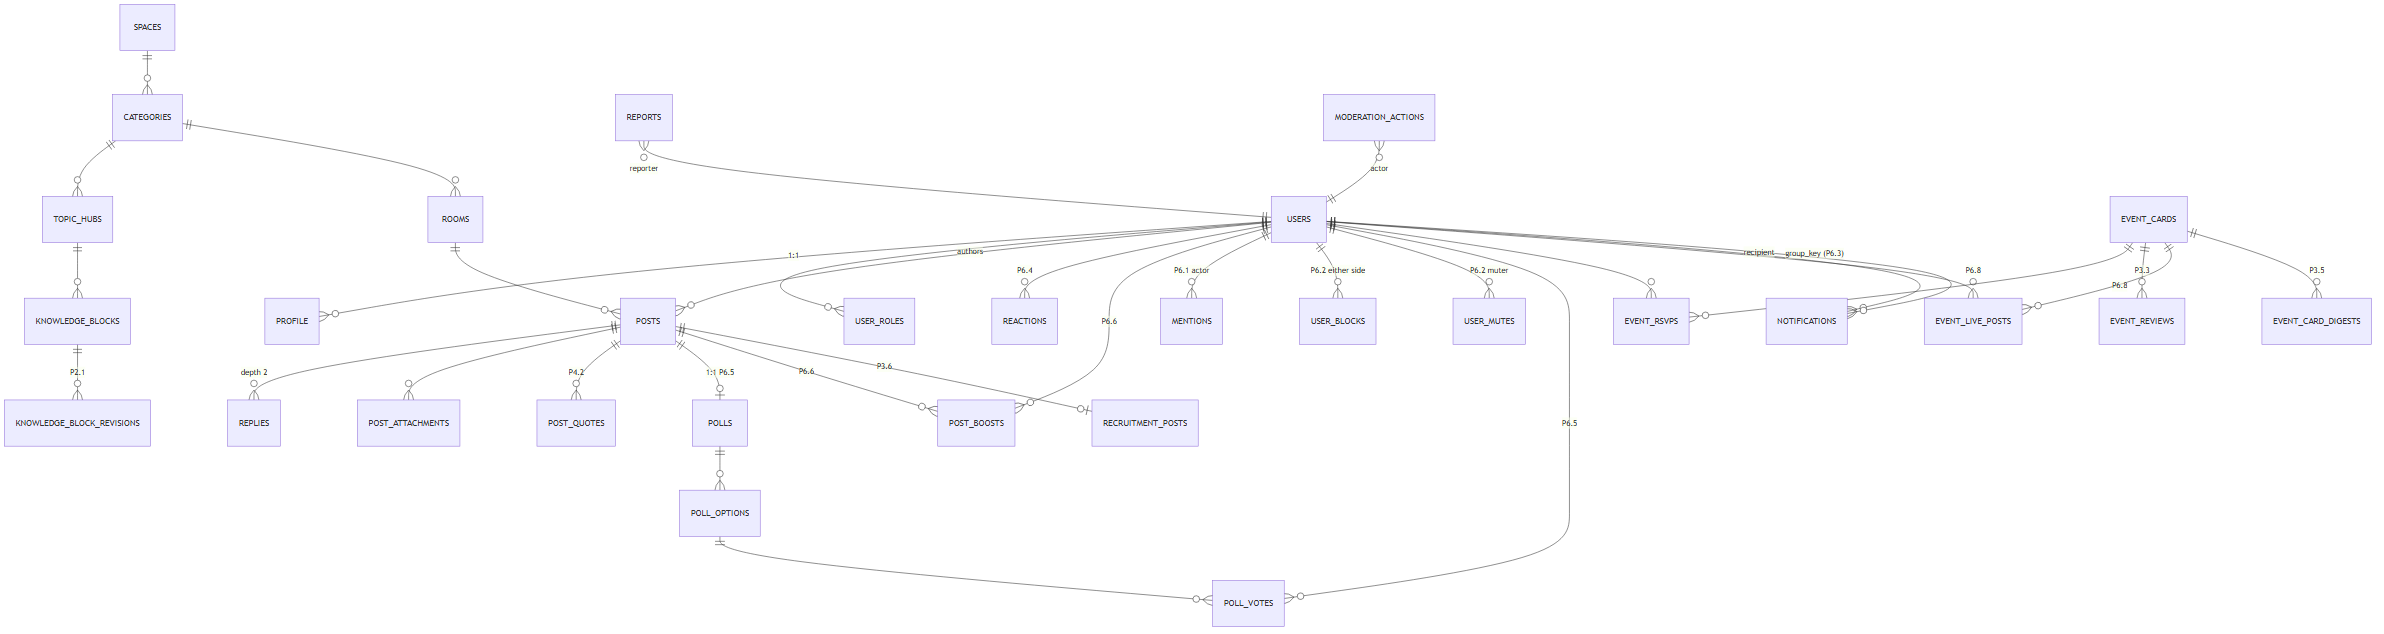
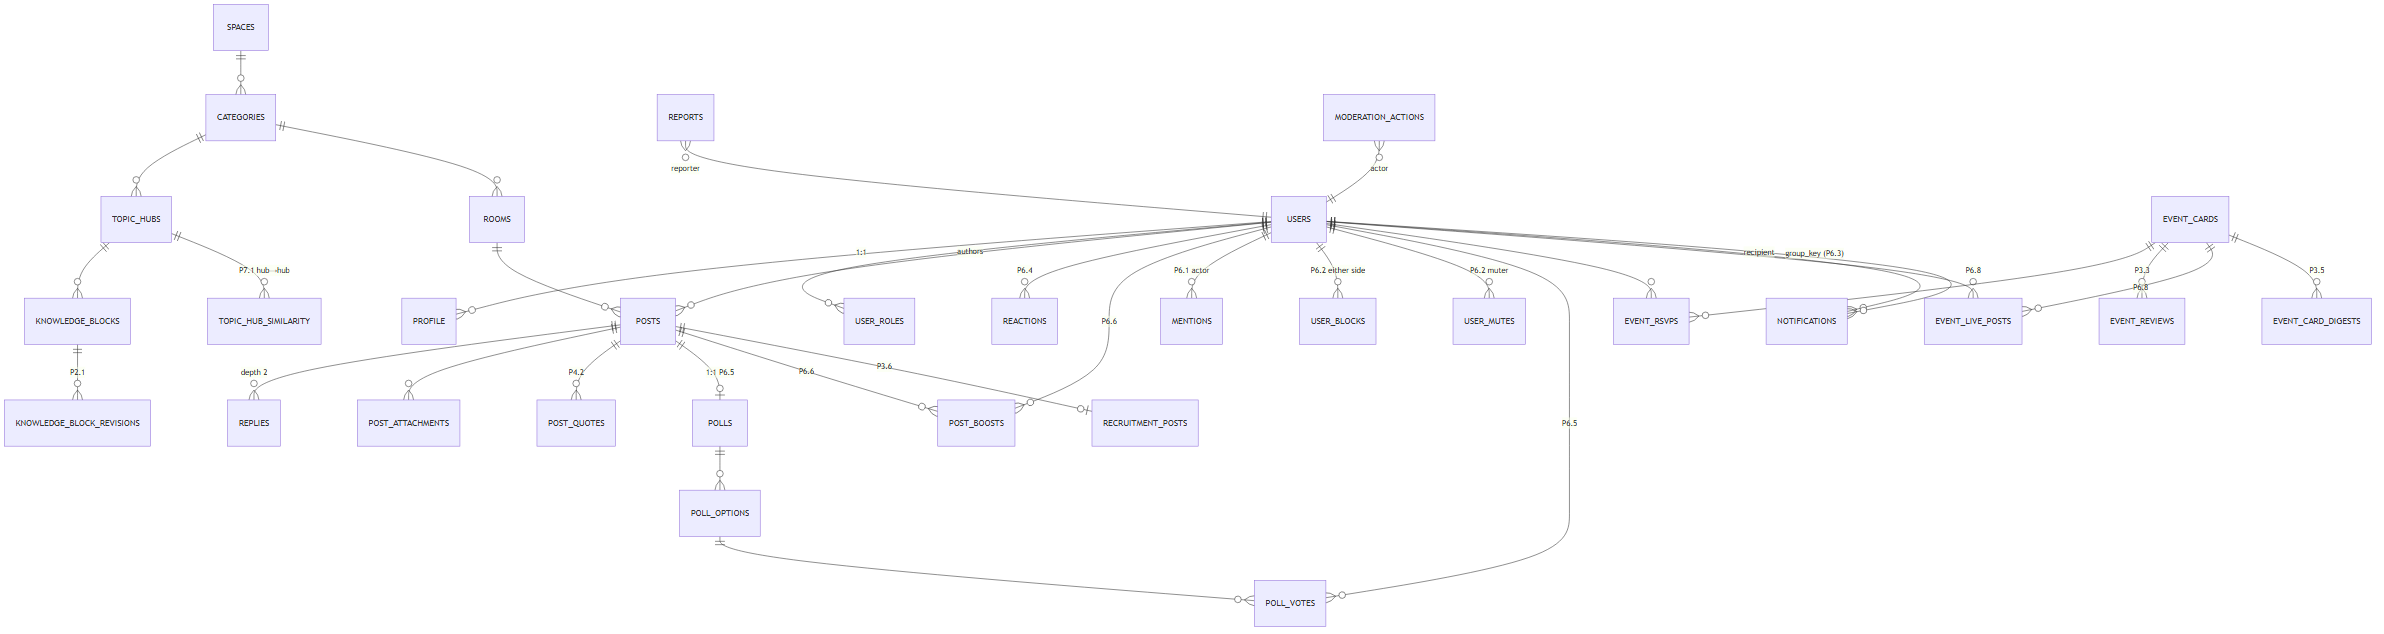
docs: reconcile architecture + backlog with Phase 7 + refactor B
Phase 7 (P7.1-P7.3) and the refactor-B cron-lock extraction landed in
code but never reached the canonical docs. This brings the four
status docs + three Mermaid diagrams back in sync. No code change.

ARCHITECTURE_OVERVIEW.md:
- §2 module map: KnowledgeModule gains "P7.1 similarity + P7.2
  validation/chain"; EventDetailModule gains "P7.3 recap suggest".
- §6 cron map: adds TopicHubSimilarityCron (854_305, 03:30 KST) as a
  D7 node + L5 lock, renames the lock subgraph to the CRON_LOCK_IDS
  registry (refactor B) and notes that ids are now compile-checked,
  not inlined.
- §8 ER: adds TOPIC_HUBS ||--o{ TOPIC_HUB_SIMILARITY (P7.1).
- §9 code-path index: adds rows for event-recap-suggest,
  topic-hub-similarity (service + cron), knowledge-validation, and
  the shared cron-lock.service.ts.

NEXT_BACKLOG.md: status-note headline → "Phase 1-7 + F-series +
refactor A/B/D", explicitly listing the P7 layer as shipped so the
reader knows the phase boundary moved.

MOBILE_BETA_GAP_AUDIT.md: reset headline → Phases 1-7; new §1.7
"Phase 7" Implemented block (P7.1 strip / P7.2 badge+chain / P7.3
recap CTA); F-series renumbered to §1.8 and green gates to §1.9 with
the post-refactor-A baseline noted (157 pass / 0 fail).

docs/architecture/*.mmd: 02 (module map), 06 (cron map — D7 + 854_305
+ registry rename), 08 (ER — TOPIC_HUB_SIMILARITY) updated and the
three PNGs re-rendered from source so the images aren't stale.

Verified: lock ids in docs exactly match `CRON_LOCK_IDS` in
[…]

diff --git a/docs/MOBILE_BETA_GAP_AUDIT.md b/docs/MOBILE_BETA_GAP_AUDIT.md
@@ -3,12 +3,15 @@
 A single document inventorying what's between today's tree and a
 Play Internal-testing upload, classified by who owns the next move.
 
-> **Reset (current branch `feat/p1-foundation`).** Phases 1–6 +
-> F-series have landed since the prior snapshot at `d195ac3
-> docs(mobile): add physical device qa log template` (2026-05-20).
-> Most of what this doc previously tagged "Decision deferred" (push,
-> crash reporting, media R2, login picker) is now code-complete and
-> waiting on operator-owned external setup — not engineering.
+> **Reset (current branch `feat/p1-foundation`).** Phases 1–7 +
+> F-series + refactor A/B/D have landed since the prior snapshot at
+> `d195ac3 docs(mobile): add physical device qa log template`
+> (2026-05-20). Most of what this doc previously tagged "Decision
+> deferred" (push, crash reporting, media R2, login picker) is now
+> code-complete and waiting on operator-owned external setup — not
+> engineering. Phase 7 added the identity-strengthening algorithm
+> layer (similar-hub strip, knowledge validation badge/chain, event
+> recap CTA) — see §1.7.
 
 Pairs with:
 
@@ -113,7 +116,18 @@ that landed it; refer to the commit log for surrounding context.
 | Reply controls (P6.7) | `posts.reply_policy` enum (ANYONE/FOLLOWERS/MENTIONED_ONLY/DISABLED), `assertReplyAllowed()` gate, composer chip. |
 | Event live mode (P6.8) | `event_live_posts` table, RSVP=ATTENDED + IN_PROGRESS window write, +48h archive cron on advisory lock 854_303. |
 
-### 1.7 F-series follow-ups
+### 1.7 Phase 7 — identity-strengthening algorithm layer
+
+All three are deterministic + explainable (no ML, no For-You feed —
+each surface shows the user WHY it recommended something).
+
+| Item | Note |
+|---|---|
+| Topic Hub similarity (P7.1) | `topic_hub_similarity` table + Jaccard scorer (contributor 0.7 + room 0.3), daily 03:30 KST cron on advisory lock 854_305, `GET /v1/topic-hubs/:slug/similar` (Public, accessPolicy-filtered), mobile `SimilarTopicHubStrip` with "공통 기여자 N명 / 공통 방 K개" reason chip. |
+| Knowledge validation + chain (P7.2) | `GET /v1/knowledge-blocks/:id/validation` (deterministic score → 검증 부족/진행 중/충분히 검증됨 label + 4 signals) + `/chain` (person-centric timeline), index `knowledge_contributions_target_status_idx`, mobile validation badge + signals sheet + `BlockChainTimelineScreen`. |
+| Event recap auto-draft (P7.3) | `POST /v1/event-cards/:id/recap/suggest` (organizer gate: room owner OR VERIFIED_PLANNER, COMPLETED-only), no new schema (synthesizes EventReview/EventLivePost/EventRsvp), mobile `RecapDraftCallToAction` → composer prefill via `PostComposerArgs`. |
+
+### 1.8 F-series follow-ups
 
 | Item | Note |
 |---|---|
@@ -124,11 +138,13 @@ that landed it; refer to the commit log for surrounding context.
 | Drill-down back-button (F14) | Detail navigations use `push` not `go` so the back arrow always works. |
 | Backfill scripts (F11) | Five idempotent scripts (`backfill_revisions`, `backfill_reputation`, `backfill_reference_tiers`, `migrate-uploads-to-r2`, `backfill_recruitment_posts`) with dry-run option. |
 
-### 1.8 Current green gates
+### 1.9 Current green gates
 
-Re-run against HEAD before each release attempt. Numeric counts in the
-previous revision of this doc predate Phase 1–6; refresh them in the
-next mobile-stabilization PR (improvement plan §2).
+Re-run against HEAD before each release attempt. After refactor A the
+mobile baseline is **157 passing tests, 0 failing** (the 12
+pre-existing brittle visual-smoke / ops / profile failures were fixed
+by stubbing the Dio-firing providers + the `CrashlyticsBootstrap`
+late-init guard).
 
 | Gate | Command |
 |---|---|

diff --git a/docs/ARCHITECTURE_OVERVIEW.md b/docs/ARCHITECTURE_OVERVIEW.md
@@ -93,14 +93,14 @@ flowchart TB
 
     subgraph Knowledge["Knowledge & content"]
         Community["CommunityModule<br/>(space/category/room)"]
-        Knowledge["KnowledgeModule<br/>(topic hub + contributions<br/>+ P2.1 revisions + P2.2 reputation<br/>+ P2.4 digests)"]
+        Knowledge["KnowledgeModule<br/>(topic hub + contributions<br/>+ P2.1 revisions + P2.2 reputation<br/>+ P2.4 digests + P7.1 similarity<br/>+ P7.2 validation/chain)"]
         Reference["ReferenceModule<br/>+ P2.3 source-tier rules"]
         Posts["PostsModule<br/>post / reply / reaction palette (P6.4)<br/>poll (P6.5) / boost (P6.6) / recruitment (P3.6)"]
     end
 
     subgraph Events
         EvtLink["EventLinkModule<br/>(M15/M20 PrismEventsClient<br/>+ event_cards upsert)"]
-        EvtDetail["EventDetailModule<br/>P3.1 RSVP / P3.3 review / P3.4 ICS<br/>P3.5 digest / P6.8 live + cron"]
+        EvtDetail["EventDetailModule<br/>P3.1 RSVP / P3.3 review / P3.4 ICS<br/>P3.5 digest / P6.8 live + cron<br/>+ P7.3 recap suggest"]
     end
 
     subgraph Discovery
@@ -332,27 +332,34 @@ flowchart LR
         D4["WeeklyDigestCron<br/>(P4.6 every Sunday 18 KST)"]
         D5["FollowRecommendationCron<br/>(P4.3 daily 03 KST)"]
         D6["AnalyticsRetentionCron<br/>(P5.5 daily, 180d horizon)"]
+        D7["TopicHubSimilarityCron<br/>(P7.1 daily 03:30 KST)"]
     end
 
-    subgraph "Advisory lock IDs (shared/cron-locks)"
+    subgraph "CRON_LOCK_IDS (shared/cron-lock.service)"
         L1["854_301 reminder"]
         L2["854_302 status refresh"]
         L3["854_303 live archive"]
         L4["854_304 weekly digest"]
-        L5["854_311 follow recs"]
-        L6["854_401 analytics retention"]
+        L5["854_305 topic-hub similarity"]
+        L6["854_311 follow recs"]
+        L7["854_401 analytics retention"]
     end
 
     D1 --- L1
     D2 --- L2
     D3 --- L3
     D4 --- L4
-    D5 --- L5
-    D6 --- L6
+    D5 --- L6
+    D6 --- L7
+    D7 --- L5
 ```
 
 Single-worker deployments can ignore the lock; multi-replica picks up
-whichever instance wins the lock first.
+whichever instance wins the lock first. The lock ids are no longer
+inlined per handler — they live in the canonical `CRON_LOCK_IDS`
+registry in `apps/api/src/shared/cron-lock.service.ts` (refactor B),
+which is what makes a duplicate id a compile error rather than a
+silent runtime collision.
 
 ---
 
@@ -400,6 +407,7 @@ erDiagram
     CATEGORIES ||--o{ TOPIC_HUBS : ""
     CATEGORIES ||--o{ ROOMS : ""
     TOPIC_HUBS ||--o{ KNOWLEDGE_BLOCKS : ""
+    TOPIC_HUBS ||--o{ TOPIC_HUB_SIMILARITY : "P7.1 hub→hub"
     KNOWLEDGE_BLOCKS ||--o{ KNOWLEDGE_BLOCK_REVISIONS : "P2.1"
 
     ROOMS ||--o{ POSTS : ""
@@ -446,7 +454,11 @@ not the same as the *visibility* graph.
 | Poll sidecar | `apps/api/src/modules/posts/poll.service.ts` |
 | Reply policy gate | `apps/api/src/modules/posts/reply.service.ts:assertReplyAllowed` |
 | Event live mode | `apps/api/src/modules/event-detail/event-live.service.ts` |
-| Cron registrations | `apps/api/src/modules/event-detail/event-reminder.cron.ts` + `notifications/weekly-digest.cron.ts` + `follows/follow-recommendation.cron.ts` |
+| Event recap auto-draft | `apps/api/src/modules/event-detail/event-recap-suggest.service.ts` (P7.3) |
+| Topic Hub similarity | `apps/api/src/modules/knowledge/topic-hub-similarity.service.ts` + `.cron.ts` (P7.1) |
+| Knowledge validation score + chain | `apps/api/src/modules/knowledge/knowledge-validation.service.ts` (P7.2) |
+| Cron registrations | `event-detail/event-reminder.cron.ts` + `notifications/weekly-digest.cron.ts` + `follows/follow-recommendation.cron.ts` + `knowledge/topic-hub-similarity.cron.ts` |
+| Cron advisory locks | `apps/api/src/shared/cron-lock.service.ts` (`CronLockService` + `CRON_LOCK_IDS` registry, refactor B) |
 | System Health dashboard | `apps/api/src/shared/metrics.service.ts` + `modules/ops/system-health.controller.ts` |
 | Backfill scripts | `scripts/backfill_*.ts` + `scripts/migrate-uploads-to-r2.ts` |
 

diff --git a/docs/NEXT_BACKLOG.md b/docs/NEXT_BACKLOG.md
@@ -4,11 +4,13 @@ What we know we want to add after Beta. Prioritized loosely; each item
 sketches the scope so the team can pick it up without re-discovering the
 why.
 
-> **Status note (post Phase 1–6 + F-series).** What this doc previously
-> listed as §1-§5 ("real auth", "wire notification providers",
-> "analytics retention", "media storage polish", "admin bulk ops +
-> audit log") has all landed — see
-> [ARCHITECTURE_OVERVIEW.md](ARCHITECTURE_OVERVIEW.md) and
+> **Status note (post Phase 1–7 + F-series + refactor A/B/D).** What
+> this doc previously listed as §1-§5 ("real auth", "wire notification
+> providers", "analytics retention", "media storage polish", "admin
+> bulk ops + audit log") has all landed, and so has Phase 7's
+> identity-strengthening algorithm layer (P7.1 Topic Hub similarity,
+> P7.2 knowledge validation + chain, P7.3 event recap auto-draft) —
+> see [ARCHITECTURE_OVERVIEW.md](ARCHITECTURE_OVERVIEW.md) and
 > [MOBILE_BETA_GAP_AUDIT.md](MOBILE_BETA_GAP_AUDIT.md) §1 for the
 > ship status. The items that remain are below.
 